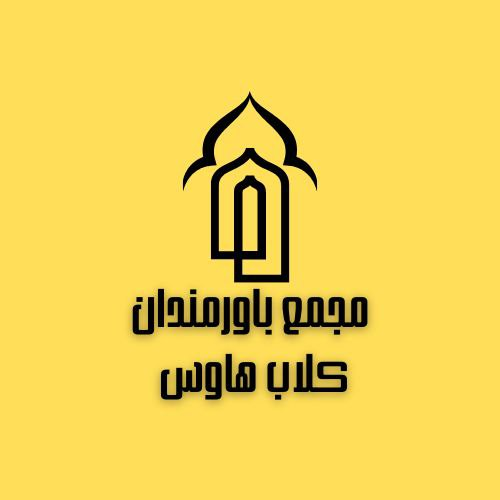
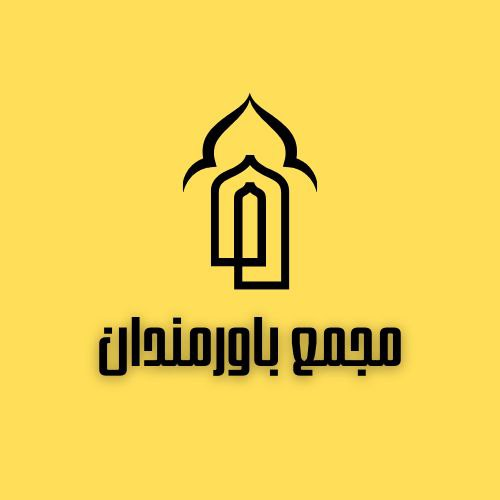
Fixed Colors

Changed region(s): [[0.18, 0.48, 0.81, 0.81], [0.36, 0.18, 0.66, 0.42]]

diff --git a/components/layout/sections/BenefitAkhlaq .tsx b/components/layout/sections/BenefitAkhlaq .tsx
@@ -98,121 +98,121 @@ export const BenefitAkhlaq = () => {
         <SheetContent>
           <SheetHeader>
             <SheetTitle>مباحث اعتقادی</SheetTitle>
-            <SheetDescription>
-              {loading ? (
-                <Lottie
-                  animationData={loadingPdfAnim}
-                  loop
-                  className="text-muted-foreground bg-transparent mt-4"
-                />
-              ) : (
-                <div>
-                  <Accordion type="single" collapsible className="w-full">
-                    {/* First 4 sessions */}
-
-                    <AccordionItem value="group-1 ">
-                      <AccordionTrigger className="">شیعه و میراث فاطمی</AccordionTrigger>
-                      <AccordionContent className="flex flex-col gap-2  justify-center  mt-2 text-center">
-                        {audioFiles.slice(0, 4).map((file, i) => (
-                          <div
-                            key={i}
-                            className="border-b border-muted-foreground/30 p-3"
-                          >
-                            <div className="font-semibold mb-2 text-primary">
-                              {file.description} 
-                            </div>
-
-                            <div className="flex flex-col sm:flex-row gap-2 justify-center">
-                              {/* Play */}
-                              <Button
-                                onClick={() =>
-                                  play({
-                                    title: file.title,
-                                    url: file.url, // assumes streamable URL
-                                    description: file.description,
-                                  })
-                                }
-                                className="w-full sm:w-auto text-card"
-                              >
-                                پخش
-                              </Button>
-
-                              {/* Download */}
-                              <Button
-                                asChild
-                                variant="outline"
-                                className="w-full sm:w-auto"
-                              >
-                                <a
-                                  href={toDownloadUrl(file.url)}
-                                  download={`${file.title || "audio"}.mp3`}
-                                  rel="noopener noreferrer"
-                                >
-                                  دانلود صوت
-                                </a>
-                              </Button>
-                            </div>
-                          </div>
-                        ))}
-                      </AccordionContent>
-                    </AccordionItem>
-
-                    {/* Last 2 sessions */}
-                    <AccordionItem value="group-2">
-                      <AccordionTrigger>گفتگوهای قرآنی</AccordionTrigger>
-                      <AccordionContent className="flex flex-col gap-4  justify-center  text-center">
-                        {audioFiles.slice(4).map((file, i) => (
-                          <div
-                            key={i + 4}
-                            className="border-b border-muted-foreground/30 p-3"
-                          >
-                            <div className="font-semibold mb-2 text-primary">
-                              {file.description}
-                            </div>
-
-                            <div className="flex flex-col sm:flex-row gap-2 justify-center">
-                              {/* Play */}
-                              <Button
-                                onClick={() =>
-                                  play({
-                                    title: file.title,
-                                    url: file.url,
-                                    description: file.description,
-                                  })
-                                }
-                                className="w-full sm:w-auto text-card"
-                              >
-                                پخش
-                              </Button>
-
-                              {/* Download */}
-                              <Button
-                                asChild
-                                variant="outline"
-                                className="w-full sm:w-auto"
-                              >
-                                <a
-                                  href={toDownloadUrl(file.url)}
-                                  download={`${file.title || "audio"}.mp3`}
-                                  rel="noopener noreferrer"
-                                >
-                                  دانلود صوت
-                                </a>
-                              </Button>
-                            </div>
-                          </div>
-                        ))}
-                      </AccordionContent>
-                    </AccordionItem>
-                    <AccordionItem value="group-2">
-                      <AccordionTrigger> مباحث متفرقه</AccordionTrigger>
-                      <AccordionContent className="flex flex-col gap-4"></AccordionContent>
-                    </AccordionItem>
-                  </Accordion>
-                </div>
-              )}
-            </SheetDescription>
+            <SheetDescription className="mb-4"></SheetDescription>
           </SheetHeader>
+
+          {loading ? (
+            <Lottie
+              animationData={loadingPdfAnim}
+              loop
+              className="text-muted-foreground bg-transparent mt-4"
+            />
+          ) : (
+            <Accordion type="single" collapsible className="w-full">
+              {/* First 4 sessions */}
+
+              <AccordionItem value="group-1 ">
+                <AccordionTrigger className="">
+                  شیعه و میراث فاطمی
+                </AccordionTrigger>
+                <AccordionContent className="flex flex-col gap-2  justify-center  mt-2 text-center">
+                  {audioFiles.slice(0, 4).map((file, i) => (
+                    <div
+                      key={i}
+                      className="border-b border-muted-foreground/30 p-3"
+                    >
+                      <div className="font-semibold mb-2 text-primary">
+                        {file.description}
+                      </div>
+
+                      <div className="flex flex-col sm:flex-row gap-2 justify-center">
+                        {/* Play */}
+                        <Button
+                          onClick={() =>
+                            play({
+                              title: file.title,
+                              url: file.url, // assumes streamable URL
+                              description: file.description,
+                            })
+                          }
+                          className="w-full sm:w-auto text-card"
+                        >
+                          پخش
+                        </Button>
+
+                        {/* Download */}
+                        <Button
+                          asChild
+                          variant="outline"
+                          className="w-full sm:w-auto"
+                        >
+                          <a
+                            href={toDownloadUrl(file.url)}
+                            download={`${file.title || "audio"}.mp3`}
+                            rel="noopener noreferrer"
+                          >
+                            دانلود صوت
+                          </a>
+                        </Button>
+                      </div>
+                    </div>
+                  ))}
+                </AccordionContent>
+              </AccordionItem>
+
+              {/* Last 2 sessions */}
+              <AccordionItem value="group-2">
+                <AccordionTrigger>گفتگوهای قرآنی</AccordionTrigger>
+                <AccordionContent className="flex flex-col gap-4  justify-center  text-center">
+                  {audioFiles.slice(4).map((file, i) => (
+                    <div
+                      key={i + 4}
+                      className="border-b border-muted-foreground/30 p-3"
+                    >
+                      <div className="font-semibold mb-2 text-primary">
+                        {file.description}
+                      </div>
+
+                      <div className="flex flex-col sm:flex-row gap-2 justify-center">
+                        {/* Play */}
+                        <Button
+                          onClick={() =>
+                            play({
+                              title: file.title,
+                              url: file.url,
+                              description: file.description,
+                            })
+                          }
+                          className="w-full sm:w-auto text-card"
+                        >
+                          پخش
+                        </Button>
+
+                        {/* Download */}
+                        <Button
+                          asChild
+                          variant="outline"
+                          className="w-full sm:w-auto"
+                        >
+                          <a
+                            href={toDownloadUrl(file.url)}
+                            download={`${file.title || "audio"}.mp3`}
+                            rel="noopener noreferrer"
+                          >
+                            دانلود صوت
+                          </a>
+                        </Button>
+                      </div>
+                    </div>
+                  ))}
+                </AccordionContent>
+              </AccordionItem>
+              <AccordionItem value="group-2">
+                <AccordionTrigger> مباحث متفرقه</AccordionTrigger>
+                <AccordionContent className="flex flex-col gap-4"></AccordionContent>
+              </AccordionItem>
+            </Accordion>
+          )}
         </SheetContent>
       </Sheet>
     </>

diff --git a/components/layout/sections/BenefitsCard.tsx b/components/layout/sections/BenefitsCard.tsx
@@ -28,7 +28,7 @@ export const BenefitsCard = () => {
   const { play } = useAudioPlayer(); // ← use the global player
 
   const toDownloadUrl = (u: string) =>
-  u ? u.replace(/([?&])raw=1/, "$1dl=1").replace(/([?&])dl=0/, "$1dl=1") : u;
+    u ? u.replace(/([?&])raw=1/, "$1dl=1").replace(/([?&])dl=0/, "$1dl=1") : u;
 
   const fetchDescription = async () => {
     setLoading(true);
@@ -243,10 +243,12 @@ export const BenefitsCard = () => {
       </Card>
 
       <Sheet open={open} onOpenChange={setOpen}>
-        <SheetContent className="overflow-y-auto">
+        <SheetContent className="overflow-y-auto ">
           <SheetHeader>
             <SheetTitle>مباحث اخلاقی</SheetTitle>
-            <SheetDescription>
+            <SheetDescription className="mb-4">
+                          </SheetDescription>
+          </SheetHeader>
               {loading ? (
                 <Lottie
                   animationData={loadingPdfAnim}
@@ -264,52 +266,50 @@ export const BenefitsCard = () => {
                         {group.subject}
                       </AccordionTrigger>
                       <AccordionContent className="flex flex-col gap-4 justify-center mt-2 text-center">
-                   {group.files.map((file, fileIndex) => (
-  <div
-    key={fileIndex}
-    className="border-b border-muted-foreground p-2"
-  >
-    <div className="font-semibold mb-3 text-primary">
-      {file.title}
-    </div>
+                        {group.files.map((file, fileIndex) => (
+                          <div
+                            key={fileIndex}
+                            className="border-b border-muted-foreground p-2"
+                          >
+                            <div className="font-semibold mb-3 text-primary">
+                              {file.title}
+                            </div>
 
-    <div className="flex gap-2 justify-center">
-      {/* Play */}
-      <Button
-        onClick={() =>
-          play({
-            title: file.title,
-            url: file.url, // assumes already streamable
-          })
-        }
-        className="w-full sm:w-auto text-card"
-      >
-        پخش
-      </Button>
+                            <div className="flex gap-2 justify-center">
+                              {/* Play */}
+                              <Button
+                                onClick={() =>
+                                  play({
+                                    title: file.title,
+                                    url: file.url, // assumes already streamable
+                                  })
+                                }
+                                className="w-full sm:w-auto text-card"
+                              >
+                                پخش
+                              </Button>
 
-      {/* Download */}
-      <a
-        href={file.url.replace(/([?&])raw=1/, "$1dl=1")} // convert raw link to dl=1
-        download={`${file.title || "audio"}.mp3`}
-      >
-        <Button
-          variant="outline"
-          className="w-full sm:w-auto"
-        >
-          دانلود
-        </Button>
-      </a>
-    </div>
-  </div>
-))}
-
+                              {/* Download */}
+                              <a
+                                href={file.url.replace(/([?&])raw=1/, "$1dl=1")} // convert raw link to dl=1
+                                download={`${file.title || "audio"}.mp3`}
+                              >
+                                <Button
+                                  variant="outline"
+                                  className="w-full sm:w-auto"
+                                >
+                                  دانلود
+                                </Button>
+                              </a>
+                            </div>
+                          </div>
+                        ))}
                       </AccordionContent>
                     </AccordionItem>
                   ))}
                 </Accordion>
               )}
-            </SheetDescription>
-          </SheetHeader>
+
         </SheetContent>
       </Sheet>
     </>

diff --git a/components/layout/navbar.tsx b/components/layout/navbar.tsx
@@ -86,7 +86,7 @@ export const Navbar = () => {
                 <SheetTitle className="flex items-center">
                   <Link href="/" className="flex items-center">
                     <img
-                      src="/icon.jpg"
+                      src="/mainicon.jpg"
                       className="bg-gradient-to-tr border-secondary  from-primary via-primary/70 to-primary rounded-lg w-9 h-9 mr-2 border text-white"
                     />
                     مجمع باورمندان کلاب هاوس